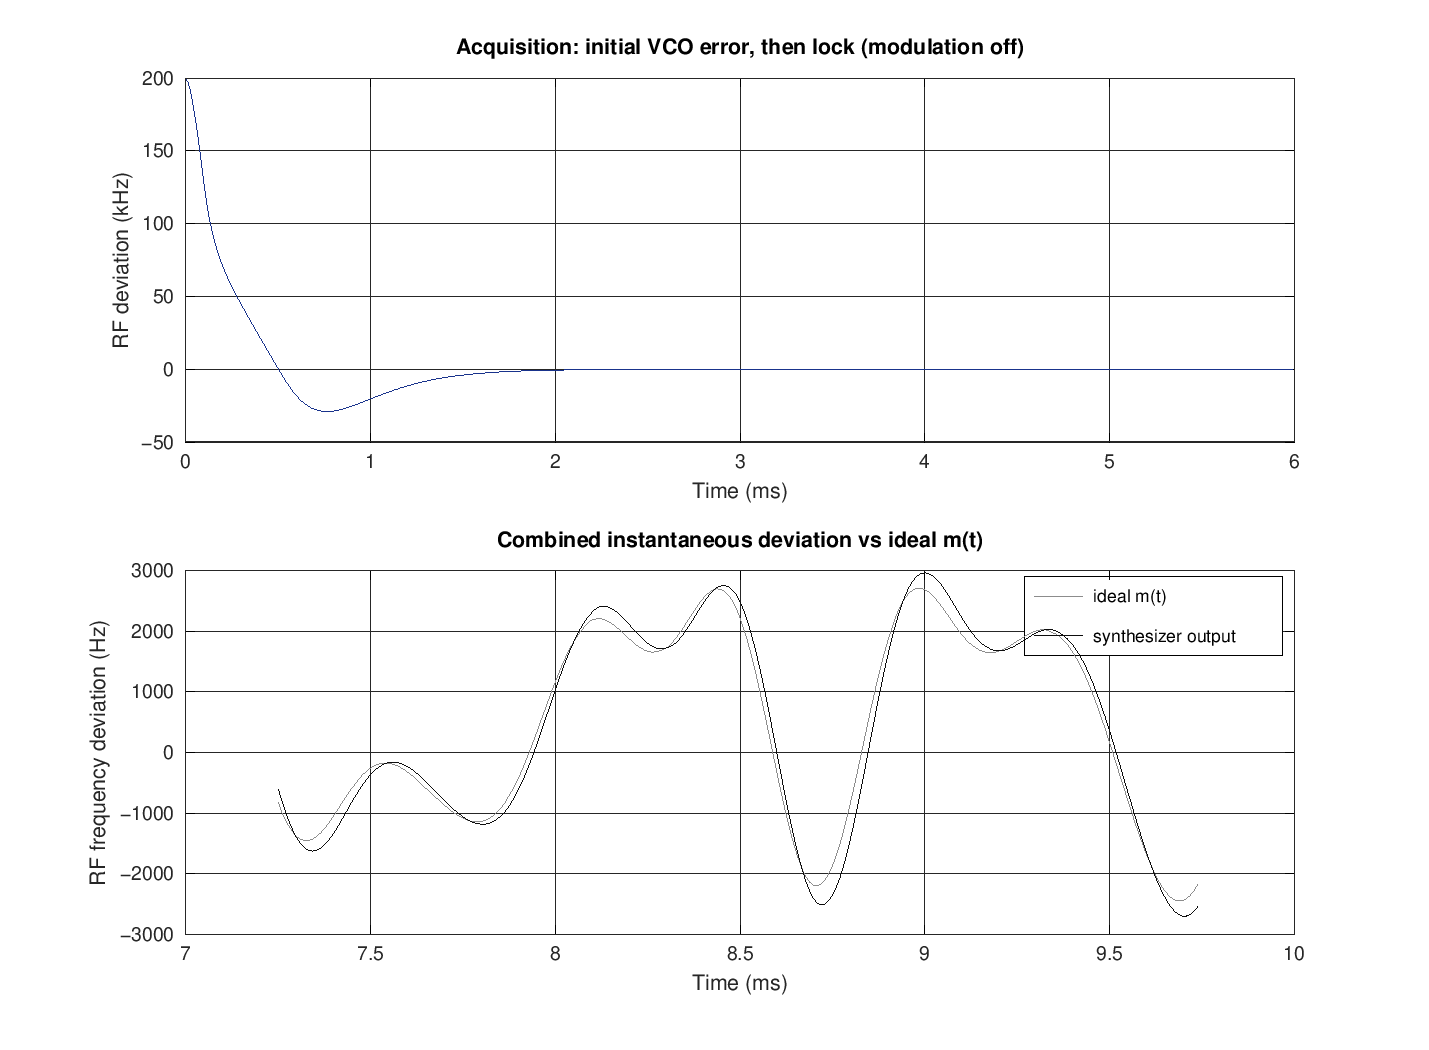
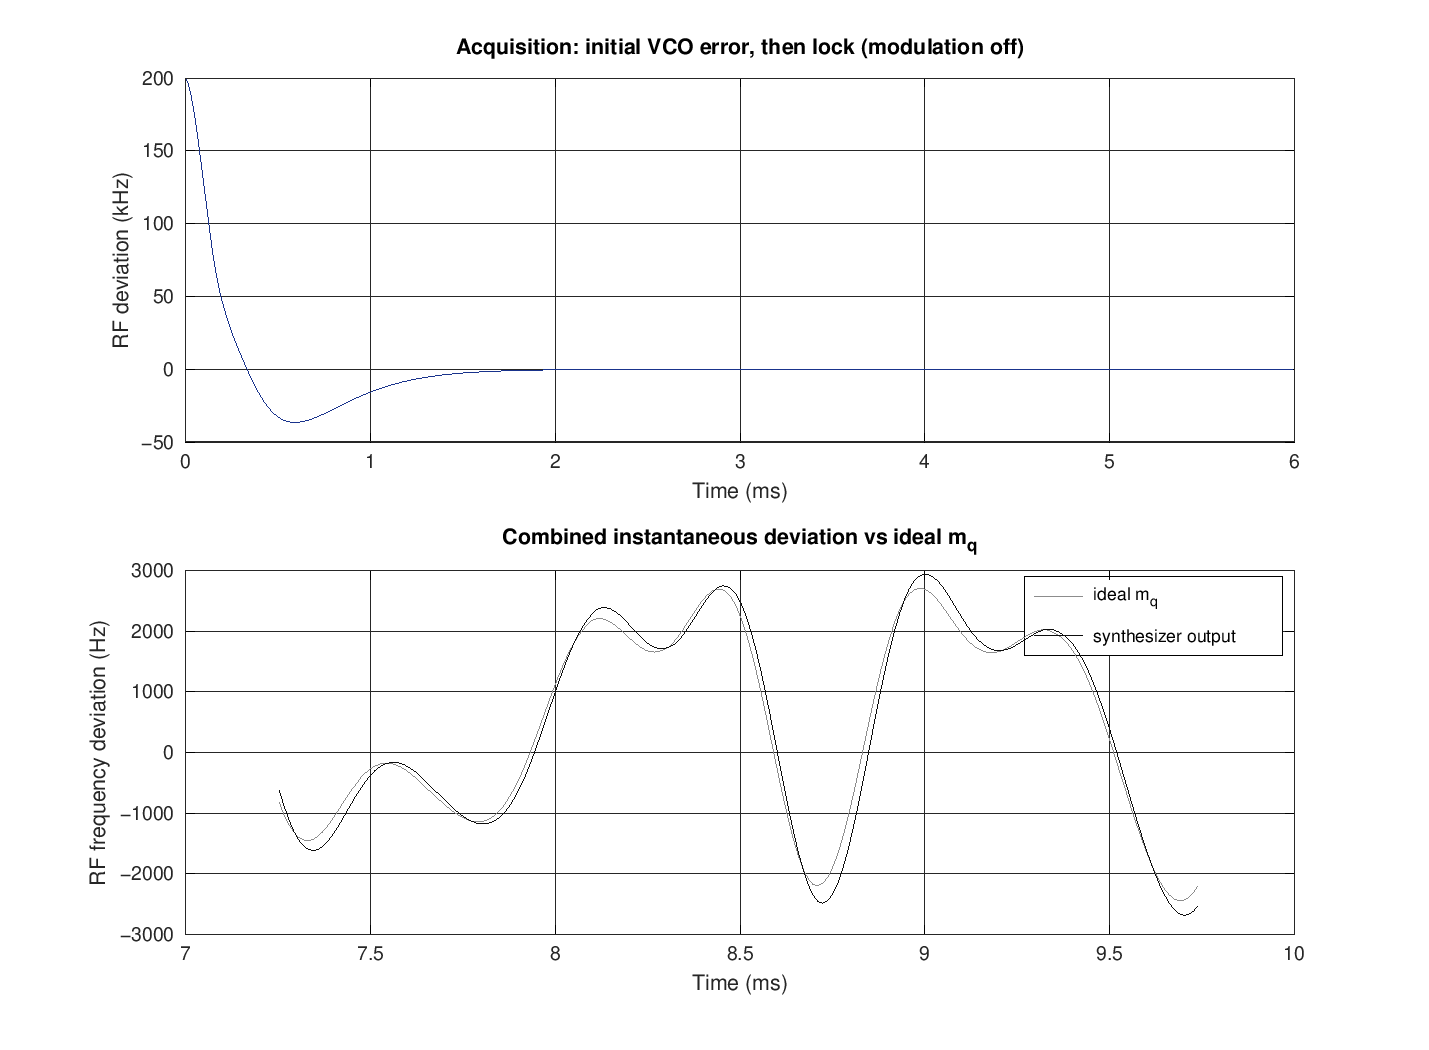
Retune the two-point synthesizer and remeasure FSK error and ACPR.
Use a 19.6608 MHz reference with the clock-rate converter bypassed, a 76.8 kHz SRRC, and a shared 16-bit OFS quantizer on both modulation paths. The carrier stays at 450 MHz.

Changed region(s): [[0.3387, 0.4876, 0.6774, 0.5181], [0.7698, 0.5486, 0.8314, 0.579]]

diff --git a/dmr-2pt-synth/params_ak2404_dmr.m b/dmr-2pt-synth/params_ak2404_dmr.m
@@ -12,21 +12,38 @@ P.seed = 2404;
 % Dibit map: 01 +1944, 00 +648, 10 -648, 11 -1944 Hz
 P.dev_Hz = struct('d01', 1944, 'd00', 648, 'd10', -648, 'd11', -1944);
 
-%% Reference, PFD, fractional-N (DS)
-P.fTcxo_Hz = 24.576e6;        % DS recommended TCXO
-P.pllR = 1;                   % DS R-counter 1..255; 1 => fPFD = fTCXO
-P.fPfd_Hz = P.fTcxo_Hz / P.pllR;   % DS example and PN condition: 24.576 MHz
+%% Reference, PFD, fractional-N
+% 19.6608 MHz is not one of the three recommended TCXO frequencies
+% (18.432 / 19.2 / 24.576). Section 13.6: TCXO_SET = 0 or 3 turns the
+% CLOCK RATE CONVERTER off and uses the TCXO frequency as-is, so
+% fMCLK = fTCXO. 19.6608 is nearer 18.432, so the bypass setting is
+% TCXO_SET = 3. fMCLK is then 19.6608 MHz, not the table's nominal 18.432.
+% Datasheet note 47: a master clock other than 18.432 or 24.576 changes
+% digital timing. fPFD stays inside the 1–25 MHz range. PLL_R = 1.
+P.fTcxo_Hz = 19.6608e6;
+P.fMclk_Hz = P.fTcxo_Hz;      % converter bypassed
+P.tcxoSet = 3;                % converter off (closer of the two bypass codes)
+P.pllR = 1;
+P.fPfd_Hz = P.fTcxo_Hz / P.pllR;
 P.fRf_Hz = 450e6;             % DS BAND1 test frequency; DMR UHF 12.5 kHz grid
 P.divSel = 2;                 % DS BAND1 local divider (DIVSEL = 2)
 P.denRatio = 2;               % DS: offset step ratio tracks the LO divider
 P.fVco_Hz = P.fRf_Hz * P.divSel;
-P.chPitch_Hz = 125;           % DS frequency-setting example
-P.MOD = round(P.fPfd_Hz / P.chPitch_Hz);   % 196608
-Ntot = P.fVco_Hz / P.fPfd_Hz;
-P.INT = floor(Ntot);
-P.FRAC = round((Ntot - P.INT) * P.MOD);
+% Exact carrier: 19.6608e6 * (45 + 795/1024) = 900e6.
+% The 125 Hz example raster (MOD = fPFD/125) does not hit 900 MHz exactly.
+% The DSM modulus is the largest multiple of 1024 that still fits in 23 bits
+% (MOD <= 8388607). FRAC scales by the same factor, so the ratio is unchanged.
+% MOD = 1024 itself would quantize OFS_MDLT onto fPFD/1024 = 19.2 kHz at the
+% VCO (9.6 kHz at RF) and would put a fractional spur on the alternate channel.
+P.INT = 45;
+P.modReduced = 1024;
+P.fracReduced = 795;
+P.modScale = floor(8388607 / P.modReduced);   % 8191
+P.MOD = P.modReduced * P.modScale;            % 8387584
+P.FRAC = P.fracReduced * P.modScale;          % 6511845
 P.ofsDen = 8388607;           % DS max unsigned 23-bit OFS_DEN
 P.ofsBits = 16;               % DS OFS_MDLT signed
+P.quantLsb_Hz = P.fPfd_Hz / P.ofsDen;   % RF Hz per OFS_MDLT count
 P.dsmOrder = 3;               % ASSUMED MASH 1-1-1 (DS says 23-bit ΔΣ, not the order)
 P.dsmAtInt = 1;               % DS: normally 1 when offset modulation is used
 
@@ -44,7 +61,9 @@ P.fPole3_Hz = 200e3;          % ASSUMED 3rd pole (DS: 3rd-order LF, frac noise >
 P.fDevInit_Hz = 400e3;        % ASSUMED initial VCO frequency error (shows lock)
 
 %% MODDAC / SMF / VCO modulation port (DS electricals; Km ASSUMED)
-P.modFs_Hz = 96e3;            % DS MODFS maximum and MODDAC maximum sample rate
+P.sps = 16;                   % SRRC samples per symbol
+P.fsMod_Hz = P.Rs * P.sps;    % 16 * 4800 = 76800 Hz
+P.modFs_Hz = P.fsMod_Hz;      % MODFS; DS maximum is 96 kHz
 P.dacBits = 12;               % DS
 P.dacVpp = 1.35;              % DS typ full-scale at MODDAC_AG = 00
 P.dacVref = 1.45;             % DS typ reference level (bias, not deviation)
@@ -55,10 +74,17 @@ P.smfFcAnalog_Hz = [];        % filled below
 P.smfOrder = 3;               % ASSUMED; fits DS typ -4 dB @ 20 kHz and -44 dB @ 100 kHz
 
 %% Simulation schedule
-P.sps = round(P.modFs_Hz / P.Rs);    % 20
-P.fsMod_Hz = P.Rs * P.sps;           % 96 kHz
 P.tAcquire_s = 0.006;
-P.nPfdPerMod = round(P.fPfd_Hz / P.fsMod_Hz);  % 256
+P.nPfdPerMod = P.fPfd_Hz / P.fsMod_Hz;   % 19.6608e6 / 76800 = 256 exactly
+
+if abs(P.nPfdPerMod - 256) > 1e-9
+    error('expected 256 PFD cycles per modulation sample, got %.6f', P.nPfdPerMod);
+end
+P.nPfdPerMod = 256;
+fCar = P.fPfd_Hz * (P.INT + P.FRAC / P.MOD);
+if abs(fCar - P.fVco_Hz) > 1e-3
+    error('carrier is not exact: VCO %.6f Hz', fCar);
+end
 
 %% Derived loop filter and SMF
 L = design_loop_filter(P);

diff --git a/dmr-2pt-synth/measure_fsk_acpr.m b/dmr-2pt-synth/measure_fsk_acpr.m
@@ -25,7 +25,12 @@ m = [zeros(1, nAcq), mMod];
 tic;
 fprintf('Simulating synthesizer (both paths, architecture unchanged)...\n');
 out = sim_twopoint_pll(P, m, 'both');
-fprintf('  %.1f s, DAC clips %d\n', toc, out.nDacClip);
+fprintf('  %.1f s, DAC clips %d, OFS LSB %.4f Hz\n', toc, out.nDacClip, P.quantLsb_Hz);
+% Ideal FM is m_q, the 16-bit command both paths actually see.
+% The pre-quantization SRRC is only the input to that quantizer.
+mCmd = out.m_q;
+dq = mCmd - m;
+fprintf('  ideal FM source: m_q (not pre-quantization m); |m-m_q| max %.3f Hz\n', max(abs(dq)));
 
 sps = P.sps;
 half = (P.rrcSpan / 2) * sps;
@@ -44,9 +49,9 @@ symSample = nAcq + (symIndex - 1) * sps + 1;
 symLevel = symDev(symIndex);
 symInSlice = symSample - i0 + 1;
 
-fIdeal = m(i0:i1);
+fIdeal = mCmd(i0:i1);
 fSynth = out.fDevRf(i0:i1);
-mRef = m(i0:i1);
+mRef = mCmd(i0:i1);
 
 fprintf('Fitting ideal FM...\n');
 A = fsk_fit(fIdeal, mRef, symInSlice, inner, P.fsMod_Hz);
@@ -54,7 +59,7 @@ fprintf('Fitting synthesizer...\n');
 B = fsk_fit(fSynth, mRef, symInSlice, inner, P.fsMod_Hz);
 
 fs = P.fsMod_Hz;
-fIdealCore = m(iValid0:iValid1);
+fIdealCore = mCmd(iValid0:iValid1);
 fSynthCore = out.fDevRf(iValid0:iValid1);
 [acA, specA] = acpr_all(fIdealCore, fs);
 [acB, specB] = acpr_all(fSynthCore, fs);
@@ -84,7 +89,7 @@ function R = fsk_fit(fMeas, mRef, symInSlice, inner, fs)
 fMeas = fMeas(:);
 mRef = mRef(:);
 n = numel(fMeas);
-span = 30;                 % samples, ±1.5 symbols at 20 samples/symbol
+span = 30;                 % samples; > 1 symbol at sps = 16, and < the 40-sample pad
 coarse = -span:0.25:span;
 [tauC, ~] = search_tau(fMeas, mRef, inner, coarse);
 fine = (tauC - 0.5):0.02:(tauC + 0.5);
@@ -326,6 +331,13 @@ function write_fsk_acpr(rootDir, P, A, B, acA, acB, acLeak)
 fid = fopen(fullfile(rootDir, 'fsk_acpr_results.txt'), 'w');
 fprintf(fid, 'nSymbols %d\n', P.nSymbols);
 fprintf(fid, 'seed %d\n', P.seed);
+fprintf(fid, 'sps %d\n', P.sps);
+fprintf(fid, 'fsMod_Hz %.0f\n', P.fsMod_Hz);
+fprintf(fid, 'fPfd_Hz %.0f\n', P.fPfd_Hz);
+fprintf(fid, 'INT %d\n', P.INT);
+fprintf(fid, 'FRAC %d\n', P.FRAC);
+fprintf(fid, 'MOD %d\n', P.MOD);
+fprintf(fid, 'ideal_source m_q\n');
 write_one(fid, 'ideal', A, acA);
 write_one(fid, 'synth', B, acB);
 fprintf(fid, 'leak_window_dB');

diff --git a/dmr-2pt-synth/sim_twopoint_pll.m b/dmr-2pt-synth/sim_twopoint_pll.m
@@ -7,7 +7,12 @@ function out = sim_twopoint_pll(P, mRf, mode)
 %       'pll'  : low-frequency path only (closed-loop lowpass)
 %       'vco'  : direct VCO path only (closed-loop highpass)
 %
-%  mRf is the desired RF frequency deviation in Hz at fsMod (96 kHz).
+%  mRf is the desired RF frequency deviation in Hz at fsMod (76.8 kHz).
+%  It is quantized to signed 16-bit OFS counts before either path:
+%    q = clamp(round(m * OFS_DEN / fPFD), -32768, 32767)
+%    m_q = q * fPFD / OFS_DEN
+%  Lch OFS_MDLT = q. Hch is rounded from m_q only:
+%    Hch = clamp(round(m_q * DIVSEL / Km * 4096 / 1.35), -2048, 2047)
 %  out.fDevRf is the TX-divider output deviation, (fVCO - fVCO0)/DIV.
 
 if nargin < 3
@@ -31,13 +36,15 @@ INT = P.INT;
 MOD = P.MOD;
 fFree = P.fVco_Hz;
 
-% --- Hch: 12-bit MODDAC + SMF, then Km (Hz at the VCO) ---
+% Both paths see the same quantized deviation. Do this before either channel.
+[m_q, qWord] = quantize_ofs(P, mRf);
+
+% --- Hch: 12-bit MODDAC from m_q only, then SMF and Km (Hz at the VCO) ---
 fDirTick = zeros(1, nTick);
 nClip = 0;
 if useVco
-    vPk = P.dacVpp / 2;
-    vDesired = (P.divSel * mRf) / P.Km_HzPerV;
-    codeUnc = round(vDesired / vPk * 2048);
+    % code = m_q * DIVSEL / Km * 4096 / Vpp, signed 12-bit.
+    codeUnc = round(m_q * P.divSel / P.Km_HzPerV * 4096 / P.dacVpp);
     code = min(2047, max(-2048, codeUnc));
     nClip = sum(code ~= codeUnc);
     vAc = code * (P.dacVpp / 4096);
@@ -45,12 +52,11 @@ if useVco
     fDirTick = (P.Km_HzPerV * vSmf.') * 10^(P.modDacAg_dB / 20);
 end
 
-% --- Lch: 16-bit OFS_MDLT -> fraction added to FRAC/MOD ---
+% --- Lch: OFS_MDLT = q, then the fraction added to FRAC/MOD ---
 accWord = zeros(1, nTick);
 nCarry = zeros(1, nTick);
 if usePll
-    ofs = round(mRf * P.ofsDen / P.fPfd_Hz);
-    ofs = min(32767, max(-32768, ofs));
+    ofs = qWord;
     % delta = DEN_RATIO * OFS / OFS_DEN ; VCO frequency step = fPFD * delta
     add = round(P.denRatio * ofs * MOD / P.ofsDen);
     acc = P.FRAC + add;
@@ -153,6 +159,8 @@ end
 
 out.fVco = fMean;
 out.fDevRf = (fMean - P.fVco_Hz) / P.divSel;
+out.m_q = m_q;
+out.q = qWord;
 out.nInstMin = nMin;
 out.nInstMax = nMax;
 out.nDacClip = nClip;

diff --git a/dmr-2pt-synth/plot_results.m b/dmr-2pt-synth/plot_results.m
@@ -37,8 +37,8 @@ end
 grid on;
 xlabel('Time (ms)');
 ylabel('Frequency deviation (Hz)');
-title('DMR 4FSK symbols and SRRC deviation m(t)');
-legend('m(t) SRRC', 'dibit deviation', 'location', 'northeast');
+title('DMR 4FSK symbols and quantized deviation m_q');
+legend('m_q', 'dibit deviation', 'location', 'northeast');
 ylim([-3200 3200]);
 save_png(h, figDir, mediaDir, '01_baseband_mt_symbols.png');
 
@@ -54,7 +54,7 @@ grid on;
 xlabel('Time (ms)');
 ylabel('RF frequency deviation (Hz)');
 title('Path contributions across the ~1 kHz PLL bandwidth');
-legend('ideal m(t)', 'PLL path only (lowpass)', 'VCO path only (highpass)', ...
+legend('ideal m_q', 'PLL path only (lowpass)', 'VCO path only (highpass)', ...
     'sum of the two paths', 'location', 'northeast');
 save_png(h, figDir, mediaDir, '02_path_contributions.png');
 
@@ -75,8 +75,8 @@ plot(tex, R.both.fDevRf(i0:i1), 'Color', [0.05 0.05 0.05], 'LineWidth', 1.15);
 grid on;
 xlabel('Time (ms)');
 ylabel('RF frequency deviation (Hz)');
-title('Combined instantaneous deviation vs ideal m(t)');
-legend('ideal m(t)', 'synthesizer output', 'location', 'northeast');
+title('Combined instantaneous deviation vs ideal m_q');
+legend('ideal m_q', 'synthesizer output', 'location', 'northeast');
 save_png(h, figDir, mediaDir, '03_combined_vs_ideal.png');
 
 % ---- 4. deviation error ----
@@ -111,7 +111,7 @@ ylim([-90 5]);
 xlabel('Offset from 450 MHz carrier (kHz)');
 ylabel('Normalized power (dB)');
 title('TX complex-envelope spectrum');
-legend('ideal m(t)', 'synthesizer', 'location', 'northeast');
+legend('ideal m_q', 'synthesizer', 'location', 'northeast');
 
 [fD, pMd] = dev_spectrum(mDev, fs);
 [~, pSd] = dev_spectrum(fDev, fs);
@@ -125,7 +125,7 @@ ylim([-70 5]);
 xlabel('Frequency (kHz)');
 ylabel('Normalized PSD (dB)');
 title('Spectrum of the frequency-deviation waveform');
-legend('ideal m(t)', 'synthesizer deviation', 'location', 'northeast');
+legend('ideal m_q', 'synthesizer deviation', 'location', 'northeast');
 save_png(h, figDir, mediaDir, '05_output_spectrum.png');
 end
 

diff --git a/dmr-2pt-synth/run_dmr_2pt_synth.m b/dmr-2pt-synth/run_dmr_2pt_synth.m
@@ -57,7 +57,9 @@ fprintf('Simulating VCO path only...\n');
 R.vco = sim_twopoint_pll(P, m, 'vco');
 fprintf('  %.1f s\n', toc);
 
-R.m = m;
+% Plots and the error numbers use m_q, the shared 16-bit command.
+R.m = R.both.m_q;
+R.mFloat = m;
 R.t = t;
 R.symDev = symDev;
 R.bits = bits;
@@ -95,7 +97,9 @@ else
     fprintf('%.2f ms\n', R.lock_s * 1e3);
 end
 fprintf('Acquisition residual RMS (last 1 ms): %.2f Hz\n', R.acqResidual_Hz);
-fprintf('Deviation error vs m(t): RMS %.2f Hz, peak %.2f Hz\n', R.rmsErr_Hz, R.peakErr_Hz);
+fprintf('Deviation error vs m_q: RMS %.2f Hz, peak %.2f Hz\n', R.rmsErr_Hz, R.peakErr_Hz);
+fprintf('Quantizer |m - m_q| max %.3f Hz (LSB %.4f Hz)\n', ...
+    max(abs(R.mFloat - R.m)), P.quantLsb_Hz);
 fprintf('Linearity (pll-only + vco-only - both) RMS: %.2f Hz\n', R.rmsLin_Hz);
 
 if ~exist(P.figDir, 'dir')

diff --git a/dmr-2pt-synth/quantize_ofs.m b/dmr-2pt-synth/quantize_ofs.m
@@ -1,0 +1,11 @@
+function [mq, q] = quantize_ofs(P, m)
+%QUANTIZE_OFS  Signed 16-bit OFS quantizer, applied before either TX path.
+%  LSB is the OFS frequency step at RF: fPFD / OFS_DEN.
+%    q   = clamp(round(m * OFS_DEN / fPFD), -32768, 32767)
+%    m_q = q * fPFD / OFS_DEN
+%  Lch writes q straight into OFS_MDLT. Hch is computed only from m_q.
+
+q = round(m .* (P.ofsDen / P.fPfd_Hz));
+q = min(32767, max(-32768, q));
+mq = q .* (P.fPfd_Hz / P.ofsDen);
+end
